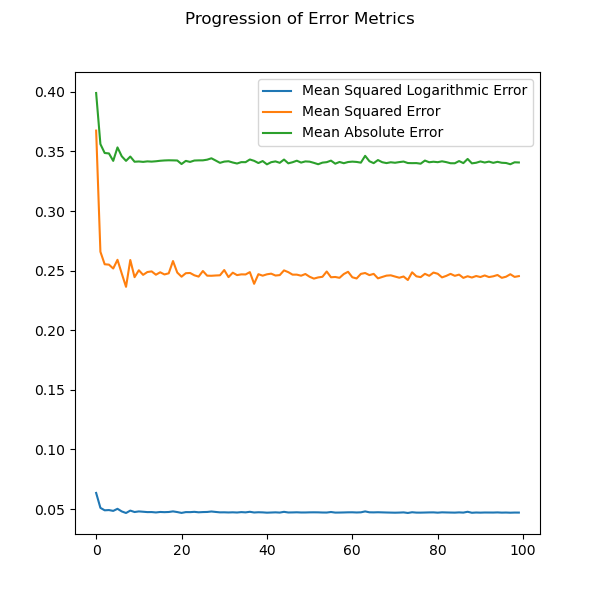
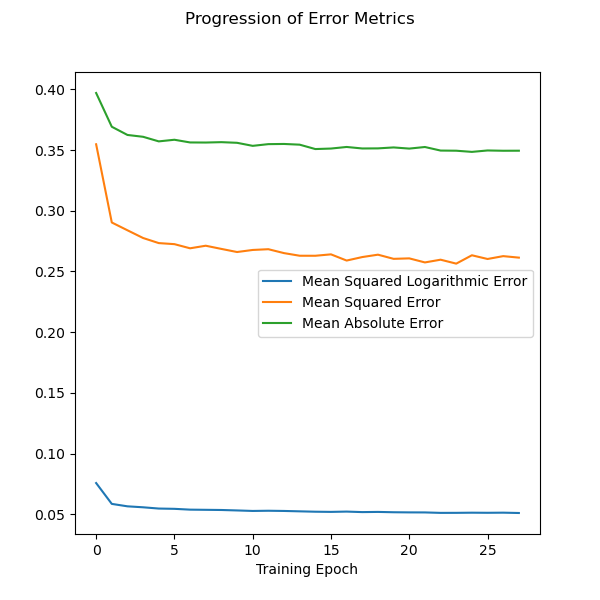
Fixed negative prediction prob and brought in Leaky ReLU activation

diff --git a/Final_Project/FinalProject_RyanMcCullough_NathanielRoberts.py b/Final_Project/FinalProject_RyanMcCullough_NathanielRoberts.py
@@ -33,6 +33,8 @@ import pandas as pd
 import keras
 from keras.models import Sequential
 from keras.layers import Dense
+from keras.layers.advanced_activations import LeakyReLU
+from keras.callbacks import EarlyStopping
 from sklearn.model_selection import KFold, train_test_split
 from matplotlib import pyplot as plt
 
@@ -49,10 +51,10 @@ def loadData():
 def cropData(data):
         ''' Exclude data irrelevant to this operation, as well as entries
             for which relevant data is incomplete '''
-        drop_cols = ["flagCa", "flagMg", "flagK", "flagNa", "flagNH4",
-                     "flagNO3", "flagCl", "flagSO4", "flagBr", "valcode",
-                     "invalcode"]
-        data.drop(columns=drop_cols, inplace=True)
+        # drop_cols = ["flagCa", "flagMg", "flagK", "flagNa", "flagNH4",
+        #              "flagNO3", "flagCl", "flagSO4", "flagBr", "valcode",
+        #              "invalcode"]
+        # data.drop(columns=drop_cols, inplace=True)
         data = data.applymap(lambda x: np.NaN if x == -9 else x)
         data = data.loc[:, ['NO3', 'SO4', 'Cl', 'NH4']]
         data = data.query('NO3 != "NaN" & SO4 != "NaN" &'
@@ -87,23 +89,26 @@ def splitData(data, fold=0):
 def trainModel(data):
     ''' Construct and train the artificial neural network model '''
     (xTest, xTrain, xVal, yTrain, yTest, yVal) = splitData(data)
-
+    halt = EarlyStopping(monitor='val_loss', verbose=1, patience=5)
+    larry = LeakyReLU()
     model = Sequential()
-    model.add(Dense(15, activation='linear', input_shape=(3,)))
-    model.add(Dense(12, activation='linear'))
-    model.add(Dense(9, activation='linear'))
-    model.add(Dense(6, activation='linear'))
-    model.add(Dense(3, activation='linear'))
-    model.add(Dense(1, activation='linear'))
+    model.add(Dense(15, activation=larry, input_shape=(3,),
+                    kernel_constraint='non_neg'))
+    model.add(Dense(12, activation=larry, kernel_constraint='non_neg'))
+    model.add(Dense(9, activation=larry, kernel_constraint='non_neg'))
+    model.add(Dense(6, activation=larry, kernel_constraint='non_neg'))
+    model.add(Dense(3, activation=larry, kernel_constraint='non_neg'))
+    model.add(Dense(1, activation=larry, kernel_constraint='non_neg'))
     model.compile(optimizer='adagrad',
                   loss='mean_squared_logarithmic_error',
                   metrics=['mean_squared_error', 'mean_absolute_error'])
     
     keras.utils.plot_model(model, to_file="./ModelStruct.png", show_shapes=True)
 
-    history = model.fit(xTrain, yTrain, epochs=100, validation_data=(xVal, yVal))
+    history = model.fit(xTrain, yTrain, epochs=100,
+                        validation_data=(xVal, yVal), callbacks=[halt])
     
-    yPred = np.array(model.predict(xTest))
+    yPred = np.array(np.abs(model.predict(xTest)))
     # eval = model.evaluate(xTest, yTest, return_dict=True)
     # print("Overall loss:", eval['mean_squared_logarithmic_error'])
     # print("Overall MSE:", eval['mean_squared_error'])
@@ -134,9 +139,11 @@ def fullPlot(X_data, y_true, y_pred):
 def historyPlot(hist):
     plt.figure(figsize=(6, 6))
     plt.suptitle("Progression of Error Metrics")
+    plt.xlabel("Training Epoch")
     plt.plot(hist.epoch, hist.history['loss'], label='Mean Squared Logarithmic Error')
     plt.plot(hist.epoch, hist.history['mean_squared_error'], label='Mean Squared Error')
     plt.plot(hist.epoch, hist.history['mean_absolute_error'], label='Mean Absolute Error')
+    plt.xticks(np.arange(0, len(hist.epoch), step=(len(hist.epoch) // 5)))
     plt.legend()
     plt.savefig("./loss_hist.png", format='png')
     plt.show()
